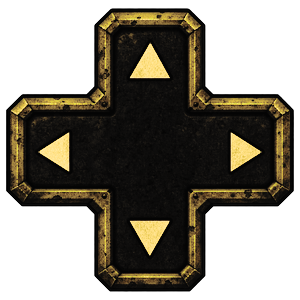
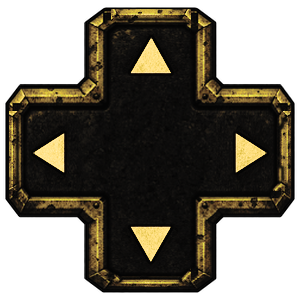
pad: bigger thick-armed dpad tucked by the item pill, back button under attack
Portrait only. Matches layout-target-440x880 (HANDOFF-DPAD). Back sends CLR,
same as the menu pill. Pad scale is capped by width (PAD_W 525) so narrower
phones get the same proportions instead of the dpad running into the skills.

Claude-Session: https://claude.ai/code/session_015QMrmtvvmGmqsGqJ61Ymdx

diff --git a/engine/overlay/src/css/hero.css b/engine/overlay/src/css/hero.css
@@ -28,7 +28,7 @@ body:not(.ready) #pad { visibility: hidden; }
 /* nudge dpad out (and attack a little) past the row edge, never past the screen edge */
 body:not(.wide) #pad .row.mid { --edge: calc(max(0px, (100vw - var(--row-w)) / 2) + 6px * var(--s, 1) - 4px); }
 body:not(.wide) #pad .row.mid #dpad { margin-left: calc(-1 * min(26px * var(--s, 1), var(--edge))); }
-body:not(.wide) #pad .row.mid .attack { margin-right: calc(-1 * min(12px * var(--s, 1), var(--edge))); }
+body:not(.wide) #pad .row.mid .atk { margin-right: calc(-1 * min(12px * var(--s, 1), var(--edge))); }
 #pad .skills { display: grid; grid-template-columns: repeat(2, auto); gap: calc(10px * var(--s, 1)); }
 #pad .key { position: relative; flex: 0 0 auto; padding: 0; border: 0; background: transparent center / 100% 100% no-repeat; touch-action: none; user-select: none;
   -webkit-user-select: none; -webkit-touch-callout: none; cursor: pointer; filter: drop-shadow(0 3px 3px rgba(0,0,0,.55)); }
@@ -50,11 +50,22 @@ body:not(.wide) #pad .row.mid .attack { margin-right: calc(-1 * min(12px * var(-
 #pad .s9 { background-image: url(../assets/pad/hudbox/hudbox-empty-9.png); }
 #pad .attack { width: calc(112px * var(--s, 1)); height: calc(112px * var(--s, 1)); border-radius: 50%; background-image: url(../assets/pad/btn-attack.png); }
 #pad .attack.down { background-image: url(../assets/pad/btn-attack-pressed.png); }
+/* back (CLR, same as the menu pill) under the attack button, portrait only; it overlaps the bottom row's height */
+#pad .atk { position: relative; display: flex; }
+#pad .back { position: absolute; left: 50%; top: calc(131px * var(--s, 1)); transform: translateX(-50%); width: calc(64px * var(--s, 1)); height: calc(64px * var(--s, 1));
+  border-radius: 50%; background-image: url(../assets/pad/btn-back.png); }
+#pad .back.down { transform: translateX(-50%) translateY(2px); }
+body.wide #pad .back { display: none; }
+/* portrait: dpad drawn at 210 but laid out as 184 so the skills/attack don't move; it sinks into the item pill's corner */
+body:not(.wide) #dpad { width: calc(210px * var(--s, 1)); height: calc(210px * var(--s, 1)); margin-right: calc(-26px * var(--s, 1)); margin-top: calc(-26px * var(--s, 1));
+  left: calc(-5px * var(--s, 1)); top: calc(54px * var(--s, 1)); }
+#pad .item { z-index: 2; }   /* the dpad box covers the pill's corner; the pill wins touches there */
 /* d-pad: one image; .arm spans are hit/highlight overlays, direction comes from the finger position */
 #dpad { position: relative; flex: 0 0 auto; width: calc(184px * var(--s, 1)); height: calc(184px * var(--s, 1)); background: url(../assets/pad/dpad.png) center / 100% 100% no-repeat;
   touch-action: none; user-select: none; -webkit-user-select: none; filter: drop-shadow(0 3px 3px rgba(0,0,0,.55)); }
-#dpad .arm { position: absolute; width: 31.4%; height: 31.4%; border-radius: 8px; pointer-events: none; }
-#dpad .up { left: 34.3%; top: 2.9%; } #dpad .left { left: 2.9%; top: 34.3%; } #dpad .right { left: 65.7%; top: 34.3%; } #dpad .down { left: 34.3%; top: 65.7%; }
+#dpad .arm { position: absolute; width: 37.3%; height: 37.3%; border-radius: 8px; pointer-events: none; }
+#dpad .up { left: 31.4%; top: 2.6%; height: 28.6%; } #dpad .down { left: 31.4%; top: 68.8%; height: 28.6%; }
+#dpad .left { left: 2.6%; top: 31.4%; width: 28.6%; } #dpad .right { left: 68.8%; top: 31.4%; width: 28.6%; }
 #dpad .arm.on { background: rgba(239,224,176,.35); box-shadow: inset 0 0 10px rgba(239,224,176,.6); }
 #dpad .up small { top: -2px; } #dpad .down small { top: auto; bottom: -2px; } #dpad .left small { left: -2px; top: 50%; transform: translateY(-50%); } #dpad .right small { left: auto; right: -2px; top: 50%; transform: translateY(-50%); }
 #pad .map small, #pad .menu small { top: auto; bottom: -16px; }   /* these sit at the screen top on PC */

diff --git a/engine/overlay/src/ts/hero.ts b/engine/overlay/src/ts/hero.ts
@@ -160,7 +160,7 @@ const KEY_CLICK = (key: string, down: boolean) => {
 // Wide when each side of a full-height game keeps a >= 200px gutter (PC windows, phone landscape,
 // tablets): controls go into the gutters. Otherwise portrait: game full width on top, the pad below
 // gives way first (down to S_MIN) before the game narrows; foldables/tablets in portrait centre it.
-const S_MIN = 0.7, PAD_H = 350;                    // pad design height: divider 20 + top row + d-pad block + bottom row + 24 bottom margin
+const S_MIN = 0.7, PAD_H = 350, PAD_W = 525;                    // pad design height: divider 20 + top row + d-pad block + bottom row + 24 bottom margin
 function layout(w: number, h: number) {
   const cs = getComputedStyle(document.documentElement);
   const sat = parseFloat(cs.getPropertyValue("--sat")) || 0, sab = parseFloat(cs.getPropertyValue("--sab")) || 0;
@@ -173,9 +173,10 @@ function layout(w: number, h: number) {
     gameW = wideW;
     s = Math.min(1.6, (gutter - 40) / 300, vh / 470);       // right gutter holds skills + attack: 278 design px wide
   } else {
-    const sMin = vw > 480 ? 0.9 : S_MIN;           // phones: full-width game first; wider (foldable open, square windows): keep the pad big
+    // PAD_W: the 440-wide layout at s 0.84 (docs: layout-target-440x880). Never wider than that, or the big dpad runs into the skills.
+    const sMin = Math.min(vw > 480 ? 0.9 : S_MIN, vw / PAD_W);   // phones: full-width game first; wider (foldable open, square windows): keep the pad big
     gameW = Math.min(vw, Math.floor((vh - PAD_H * sMin) / ratio));
-    s = Math.max(sMin, Math.min(1.3, vw / 393, (vh - gameW * ratio) / PAD_H));
+    s = Math.max(sMin, Math.min(1.3, vw / PAD_W, (vh - gameW * ratio) / PAD_H));
   }
   gameW = Math.max(gameW, 160);
   const root = document.documentElement.style;

diff --git a/engine/overlay/src/html/hero.html b/engine/overlay/src/html/hero.html
@@ -35,7 +35,10 @@
           <button class="key skill s7" data-key="7"><small>J</small><canvas class="mirror" data-slot="7" width="21" height="16"></canvas></button>
           <button class="key skill s9" data-key="9"><small>K</small><canvas class="mirror" data-slot="9" width="21" height="16"></canvas></button>
         </div>
-        <button class="key attack" data-key="5"><small>SPACE</small></button>
+        <div class="atk">
+          <button class="key attack" data-key="5"><small>SPACE</small></button>
+          <button class="key back" data-key="CLR" aria-label="뒤로"><small>Backspace</small></button>
+        </div>
       </div>
     </div>
     <div class="row bot">

diff --git a/docs/04-pad-assets.md b/docs/04-pad-assets.md
@@ -43,6 +43,7 @@
 ## 에셋 목록
 
 최종 배치(2026-10-17, `~/Downloads/hero2-hud-ref/HANDOFF-FINAL.md`): 십자키 140 (8,96), 스킬 63×48 (156/231, 112/172), 공격 84 (304,124), 회복·교체 알약, SAVE 90×24 가운데. 누르는 동안 금빛(`.key.down`).
+십자키 수정(2026-10-17, `HANDOFF-DPAD.md`, 정답 `layout-target-440x880.png`): 세로 화면에서 십자키 210(레이아웃은 184 유지, 아이템 알약 모서리에 끼움), 팔 굵은 `dpad.png`, 공격 아래 뒤로가기 `btn-back.png` 64(키 CLR = 메뉴와 같음). 패드 배율은 폭 525 디자인 px를 넘지 않음(`PAD_W`).
 
 투명 PNG, 정사각(또는 명시된 비율) 캔버스, 실제 표시 크기의 2배. 파일명 그대로.
 
@@ -51,6 +52,7 @@
 | `dpad.png` | 300×300 | 십자키 한 덩어리. 네 팔에 ▲▼◀▶ 음각. 가운데는 비움 |
 | `btn-attack.png` | 180×180 | 원형, 검 아이콘. 제일 큰 버튼 |
 | `btn-attack-pressed.png` | 180×180 | (선택) 눌린 상태 |
+| `btn-back.png` | 180×180 | 뒤로가기(CLR), 공격 버튼 아래 |
 | `hudbox/hudbox-empty-{1,3,7,9}.png` | 21×16 | 빈 스킬 칸 (게임 HUD 칸 그대로, 3배로 표시). 등록된 칸은 게임 HUD 칸(x 60/82/104/126, y h−19)을 테두리째 복사 |
 | `pill-item-on.png` | 192×80 | 회복 아이템이 등록됐을 때의 알약 바탕. 위에 물약+개수(x 156, y h−17, 13×12)를 2배로 얹음 |
 | `pill.png` | 160×64 | 알약형 틀. 회복·교체·지도·메뉴 4곳 공용 |
